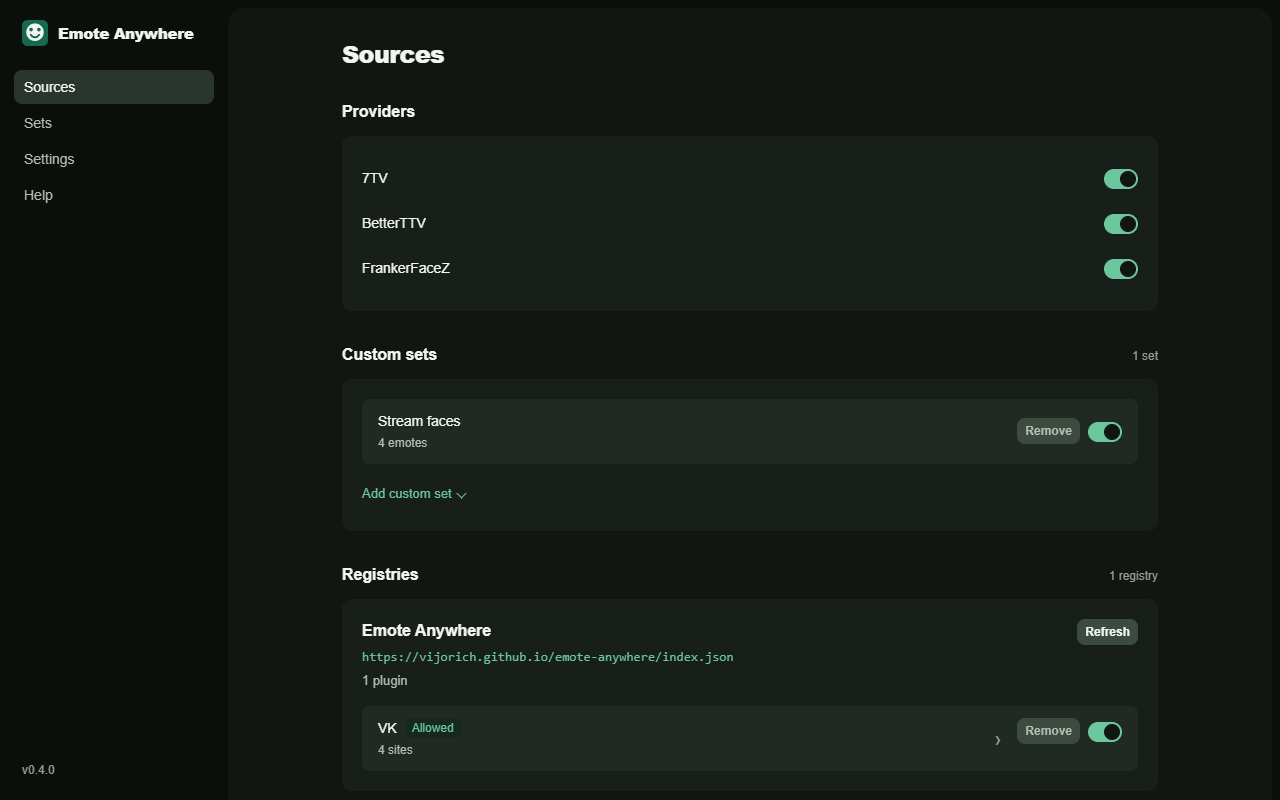
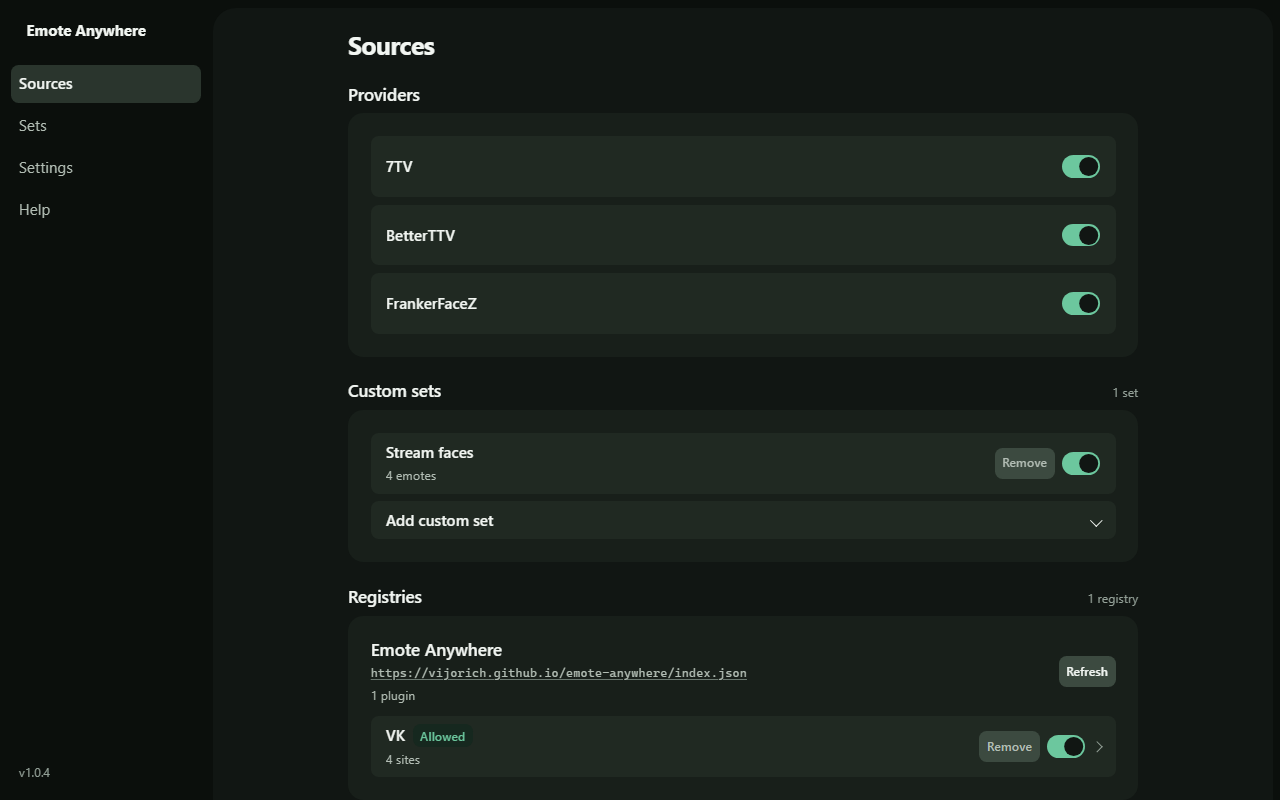
docs: refresh the main screenshot for 1.0.4
Regenerate the Sources screenshot from the current preview and keep the mock manifest version in sync.

diff --git a/dev/ui/mock.ts b/dev/ui/mock.ts
@@ -220,7 +220,7 @@ function installChrome(): void {
   const chrome = {
     runtime: {
       id: 'preview',
-      getManifest: () => ({ version: '0.5.0' }),
+      getManifest: () => ({ version: '1.0.4' }),
       getURL: (path: string) => path,
       sendMessage: async (request: RpcRequest) => {
         try {
